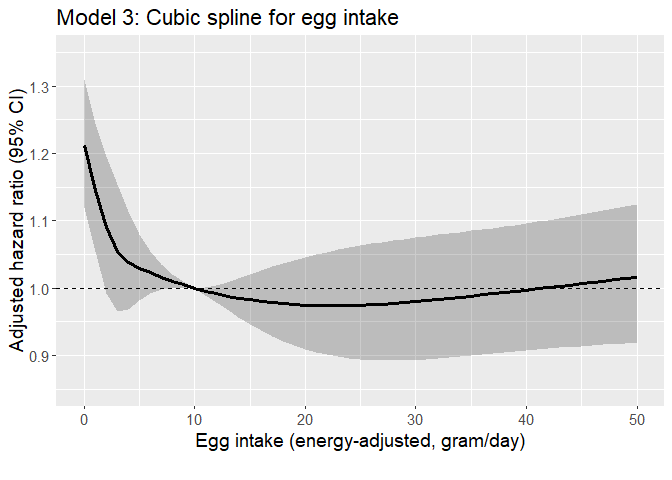
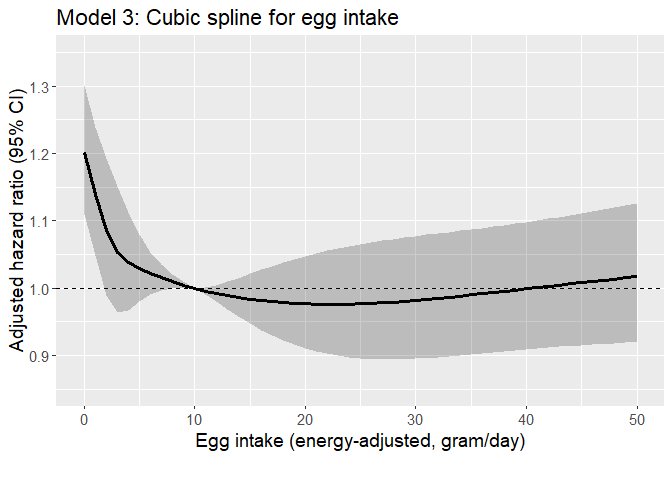
Adds recalculated dairy

diff --git a/summary.md b/summary.md
@@ -100,58 +100,58 @@ Egg dementia study
 | fish_gram_ea_4 |     n |   pct |  mean |    p1 |    p2 |    p3 |
 |:---------------|------:|------:|------:|------:|------:|------:|
 | None           | 19220 | 48.92 |  0.00 |  0.00 |  0.00 |  0.00 |
-| \<8.6 g/d      |  6253 | 15.92 |  5.40 |  4.06 |  5.37 |  6.82 |
-| 8.6-\<17.2 g/d |  6733 | 17.14 | 12.56 | 10.52 | 12.33 | 14.57 |
-| 17.2+ g/d      |  7079 | 18.02 | 35.85 | 20.97 | 27.27 | 42.07 |
+| \<9 g/d        |  6572 | 16.73 |  5.56 |  4.14 |  5.50 |  7.06 |
+| 9-\<18 g/d     |  6838 | 17.41 | 13.04 | 10.86 | 12.78 | 15.16 |
+| 18+ g/d        |  6655 | 16.94 | 37.02 | 21.82 | 28.42 | 43.59 |
 
-| dairy_gram_ea_4 |    n | pct |    mean |      p1 |      p2 |      p3 |
-|:----------------|-----:|----:|--------:|--------:|--------:|--------:|
-| \<2150 g/d      | 9822 |  25 | 2080.94 | 1887.63 | 2163.26 | 2357.61 |
-| 2150-2990 g/d   | 9821 |  25 | 2755.12 | 2640.37 | 2760.10 | 2872.39 |
-| 2990-\<3450 g/d | 9821 |  25 | 3213.99 | 3099.33 | 3210.13 | 3328.07 |
-| 3450+ g/d       | 9821 |  25 | 3957.59 | 3604.37 | 3814.46 | 4164.20 |
+| alldairy2_gram_ea_4 |     n |   pct |   mean |     p1 |     p2 |     p3 |
+|:--------------------|------:|------:|-------:|-------:|-------:|-------:|
+| None                |  4878 | 12.42 |   0.00 |   0.00 |   0.00 |   0.00 |
+| \<50 g/d            | 11784 | 30.00 |  21.46 |   9.50 |  19.78 |  32.78 |
+| 50-\<180 g/d        | 11502 | 29.28 | 106.36 |  72.54 | 102.72 | 138.05 |
+| 180+ g/d            | 11121 | 28.31 | 368.95 | 233.15 | 304.33 | 424.81 |
 
-| nutsseeds_gram_ea_4 |    n | pct |  mean |    p1 |    p2 |    p3 |
-|:--------------------|-----:|----:|------:|------:|------:|------:|
-| \<8.9 g/d           | 9822 |  25 |  4.69 |  2.60 |  4.90 |  6.94 |
-| 8.9-\<18.4 g/d      | 9821 |  25 | 13.44 | 11.09 | 13.29 | 15.76 |
-| 18.4-\<32.1 g/d     | 9821 |  25 | 24.67 | 21.30 | 24.41 | 27.92 |
-| 32.1+ g/d           | 9821 |  25 | 50.97 | 37.36 | 44.76 | 57.28 |
+| nutsseeds_gram_ea_4 |     n |   pct |  mean |    p1 |    p2 |    p3 |
+|:--------------------|------:|------:|------:|------:|------:|------:|
+| \<9 g/d             |  9941 | 25.30 |  4.74 |  2.62 |  4.95 |  7.00 |
+| 9-\<19 g/d          | 10270 | 26.14 | 13.78 | 11.30 | 13.62 | 16.24 |
+| 19-\<33 g/d         |  9715 | 24.73 | 25.39 | 21.98 | 25.10 | 28.65 |
+| 33+ g/d             |  9359 | 23.82 | 51.88 | 38.15 | 45.56 | 58.15 |
 
-| totalveg_gram_ea_4 |    n | pct |   mean |     p1 |     p2 |     p3 |
-|:-------------------|-----:|----:|-------:|-------:|-------:|-------:|
-| \<184 g/d          | 9822 |  25 | 126.59 |  98.91 | 133.07 | 160.46 |
-| 184-\<269 g/d      | 9821 |  25 | 225.94 | 204.69 | 225.38 | 247.03 |
-| 269-\<378 g/d      | 9821 |  25 | 319.60 | 292.93 | 317.58 | 345.44 |
-| 378+ g/d           | 9821 |  25 | 534.33 | 421.12 | 480.48 | 583.38 |
+| totalveg_gram_ea_4 |    n |   pct |   mean |     p1 |     p2 |     p3 |
+|:-------------------|-----:|------:|-------:|-------:|-------:|-------:|
+| \<185 g/d          | 9986 | 25.42 | 127.53 |  99.54 | 134.27 | 161.68 |
+| 185-\<270 g/d      | 9722 | 24.75 | 226.93 | 205.95 | 226.33 | 247.68 |
+| 270-\<380 g/d      | 9878 | 25.14 | 320.66 | 293.58 | 318.49 | 346.64 |
+| 380+ g/d           | 9699 | 24.69 | 536.28 | 423.07 | 482.12 | 584.60 |
 
-| fruits_gram_ea_4 |    n | pct |   mean |     p1 |     p2 |     p3 |
-|:-----------------|-----:|----:|-------:|-------:|-------:|-------:|
-| \<168 g/d        | 9822 |  25 | 101.70 |  69.21 | 107.27 | 139.02 |
-| 168-\<280 g/d    | 9821 |  25 | 224.62 | 197.55 | 224.47 | 251.89 |
-| 280-\<419 g/d    | 9821 |  25 | 344.03 | 308.95 | 341.09 | 377.68 |
-| 419+ g/d         | 9821 |  25 | 616.47 | 471.75 | 546.38 | 683.82 |
+| fruits_gram_ea_4 |    n |   pct |   mean |     p1 |     p2 |     p3 |
+|:-----------------|-----:|------:|-------:|-------:|-------:|-------:|
+| \<170 g/d        | 9889 | 25.17 | 102.16 |  69.40 | 107.64 | 139.63 |
+| 170-\<280 g/d    | 9773 | 24.88 | 225.10 | 198.11 | 224.93 | 252.28 |
+| 280-\<420 g/d    | 9831 | 25.02 | 344.38 | 309.25 | 341.64 | 378.08 |
+| 420+ g/d         | 9792 | 24.93 | 617.05 | 472.46 | 546.86 | 684.20 |
 
-| legumes_gram_ea_4 |    n | pct |   mean |     p1 |     p2 |     p3 |
-|:------------------|-----:|----:|-------:|-------:|-------:|-------:|
-| \<33.4 g/d        | 9822 |  25 |  16.87 |   8.73 |  17.65 |  25.93 |
-| 33.4-\<61.1 g/d   | 9821 |  25 |  47.29 |  40.47 |  47.34 |  54.11 |
-| 61.1-\<99.2 g/d   | 9821 |  25 |  77.99 |  68.62 |  77.02 |  86.68 |
-| 99.2+ g/d         | 9821 |  25 | 167.19 | 115.63 | 141.92 | 192.18 |
+| legumes_gram_ea_4 |     n |   pct |   mean |     p1 |     p2 |     p3 |
+|:------------------|------:|------:|-------:|-------:|-------:|-------:|
+| (-Inf,33\]        |  9677 | 24.63 |  16.63 |   8.59 |  17.38 |  25.56 |
+| (33,60\]          |  9596 | 24.43 |  46.57 |  39.91 |  46.65 |  53.22 |
+| (60,100\]         | 10346 | 26.34 |  77.69 |  67.90 |  76.58 |  86.79 |
+| (100, Inf\]       |  9666 | 24.60 | 168.27 | 116.66 | 143.04 | 193.09 |
 
-| refgrains_gram_ea_4 |    n | pct |   mean |     p1 |     p2 |     p3 |
-|:--------------------|-----:|----:|-------:|-------:|-------:|-------:|
-| \<38.4 g/d          | 9822 |  25 |  20.44 |  12.57 |  21.07 |  29.52 |
-| 38.4-\<80.5 g/d     | 9821 |  25 |  58.28 |  47.87 |  57.66 |  68.53 |
-| 80.5-\<146 g/d      | 9821 |  25 | 109.51 |  93.08 | 107.94 | 124.73 |
-| 146+ g/d            | 9821 |  25 | 265.82 | 173.46 | 218.48 | 304.67 |
+| refgrains_gram_ea_4 |     n |   pct |   mean |     p1 |     p2 |     p3 |
+|:--------------------|------:|------:|-------:|-------:|-------:|-------:|
+| \<40 g/d            | 10245 | 26.08 |  21.21 |  12.97 |  21.88 |  30.66 |
+| 40-\<83 g/d         |  9913 | 25.23 |  60.32 |  49.65 |  59.53 |  70.86 |
+| 83-\<150 g/d        |  9732 | 24.77 | 112.66 |  95.95 | 111.02 | 128.22 |
+| 150+ g/d            |  9395 | 23.91 | 271.16 | 178.22 | 223.86 | 311.98 |
 
-| whole_mixed_grains_gram_ea_4 |    n | pct |   mean |     p1 |     p2 |     p3 |
-|:-----------------------------|-----:|----:|-------:|-------:|-------:|-------:|
-| \<117 g/d                    | 9822 |  25 |  69.74 |  47.54 |  73.98 |  96.11 |
-| 117-\<209 g/d                | 9821 |  25 | 160.58 | 137.88 | 159.32 | 182.20 |
-| 209-\<352 g/d                | 9821 |  25 | 273.75 | 237.54 | 270.61 | 308.31 |
-| 352+ g/d                     | 9821 |  25 | 521.98 | 404.59 | 476.40 | 593.62 |
+| whole_mixed_grains_gram_ea_4 |     n |   pct |   mean |     p1 |     p2 |     p3 |
+|:-----------------------------|------:|------:|-------:|-------:|-------:|-------:|
+| \<120 g/d                    | 10143 | 25.82 |  71.28 |  48.70 |  75.39 |  98.24 |
+| 120-\<210 g/d                |  9616 | 24.48 | 162.57 | 140.22 | 161.40 | 184.00 |
+| 210-\<350 g/d                |  9618 | 24.48 | 273.83 | 238.35 | 270.76 | 307.53 |
+| 350+ g/d                     |  9908 | 25.22 | 520.48 | 403.24 | 475.29 | 592.58 |
 
 - For egg intake and meat intake, a crosstab was produced:
   - The first table was stratified by meat intake (% of egg intake
@@ -299,37 +299,37 @@ Egg dementia study
 |  | 11-\<32 g/d | 6404 (16.3) | 5389 (16.6) | 1015 (15.0) |  |  |
 |  | 32+ g/d | 6608 (16.8) | 5744 (17.7) | 864 (12.8) |  |  |
 | fish_gram_ea_4 (%) | None | 19220 (48.9) | 15626 (48.1) | 3594 (53.1) | \<0.001 |  |
-|  | \<8.6 g/d | 6253 (15.9) | 5105 (15.7) | 1148 (17.0) |  |  |
-|  | 8.6-\<17.2 g/d | 6733 (17.1) | 5679 (17.5) | 1054 (15.6) |  |  |
-|  | 17.2+ g/d | 7079 (18.0) | 6109 (18.8) | 970 (14.3) |  |  |
-| dairy_gram_ea_4 (%) | \<2150 g/d | 9822 (25.0) | 8134 (25.0) | 1688 (24.9) | 0.001 |  |
-|  | 2150-2990 g/d | 9821 (25.0) | 8090 (24.9) | 1731 (25.6) |  |  |
-|  | 2990-\<3450 g/d | 9821 (25.0) | 8047 (24.7) | 1774 (26.2) |  |  |
-|  | 3450+ g/d | 9821 (25.0) | 8248 (25.4) | 1573 (23.2) |  |  |
-| totalveg_gram_ea_4 (%) | \<184 g/d | 9822 (25.0) | 8175 (25.1) | 1647 (24.3) | 0.357 |  |
-|  | 184-\<269 g/d | 9821 (25.0) | 8117 (25.0) | 1704 (25.2) |  |  |
-|  | 269-\<378 g/d | 9821 (25.0) | 8083 (24.9) | 1738 (25.7) |  |  |
-|  | 378+ g/d | 9821 (25.0) | 8144 (25.0) | 1677 (24.8) |  |  |
-| fruits_gram_ea_4 (%) | \<168 g/d | 9822 (25.0) | 8392 (25.8) | 1430 (21.1) | \<0.001 |  |
-|  | 168-\<280 g/d | 9821 (25.0) | 8199 (25.2) | 1622 (24.0) |  |  |
-|  | 280-\<419 g/d | 9821 (25.0) | 7989 (24.6) | 1832 (27.1) |  |  |
-|  | 419+ g/d | 9821 (25.0) | 7939 (24.4) | 1882 (27.8) |  |  |
-| refgrains_gram_ea_4 (%) | \<38.4 g/d | 9822 (25.0) | 7746 (23.8) | 2076 (30.7) | \<0.001 |  |
-|  | 38.4-\<80.5 g/d | 9821 (25.0) | 8069 (24.8) | 1752 (25.9) |  |  |
-|  | 80.5-\<146 g/d | 9821 (25.0) | 8321 (25.6) | 1500 (22.2) |  |  |
-|  | 146+ g/d | 9821 (25.0) | 8383 (25.8) | 1438 (21.3) |  |  |
-| whole_mixed_grains_gram_ea_4 (%) | \<117 g/d | 9822 (25.0) | 8380 (25.8) | 1442 (21.3) | \<0.001 |  |
-|  | 117-\<209 g/d | 9821 (25.0) | 8156 (25.1) | 1665 (24.6) |  |  |
-|  | 209-\<352 g/d | 9821 (25.0) | 8053 (24.8) | 1768 (26.1) |  |  |
-|  | 352+ g/d | 9821 (25.0) | 7930 (24.4) | 1891 (27.9) |  |  |
-| nutsseeds_gram_ea_4 (%) | \<8.9 g/d | 9822 (25.0) | 8339 (25.6) | 1483 (21.9) | \<0.001 |  |
-|  | 8.9-\<18.4 g/d | 9821 (25.0) | 8220 (25.3) | 1601 (23.7) |  |  |
-|  | 18.4-\<32.1 g/d | 9821 (25.0) | 8085 (24.9) | 1736 (25.7) |  |  |
-|  | 32.1+ g/d | 9821 (25.0) | 7875 (24.2) | 1946 (28.8) |  |  |
-| legumes_gram_ea_4 (%) | \<33.4 g/d | 9822 (25.0) | 8098 (24.9) | 1724 (25.5) | 0.001 |  |
-|  | 33.4-\<61.1 g/d | 9821 (25.0) | 8022 (24.7) | 1799 (26.6) |  |  |
-|  | 61.1-\<99.2 g/d | 9821 (25.0) | 8178 (25.1) | 1643 (24.3) |  |  |
-|  | 99.2+ g/d | 9821 (25.0) | 8221 (25.3) | 1600 (23.6) |  |  |
+|  | \<9 g/d | 6572 (16.7) | 5369 (16.5) | 1203 (17.8) |  |  |
+|  | 9-\<18 g/d | 6838 (17.4) | 5769 (17.7) | 1069 (15.8) |  |  |
+|  | 18+ g/d | 6655 (16.9) | 5755 (17.7) | 900 (13.3) |  |  |
+| alldairy2_gram_ea_4 (%) | None | 4878 (12.4) | 3937 (12.1) | 941 (13.9) | \<0.001 |  |
+|  | \<50 g/d | 11784 (30.0) | 9751 (30.0) | 2033 (30.0) |  |  |
+|  | 50-\<180 g/d | 11502 (29.3) | 9658 (29.7) | 1844 (27.3) |  |  |
+|  | 180+ g/d | 11121 (28.3) | 9173 (28.2) | 1948 (28.8) |  |  |
+| totalveg_gram_ea_4 (%) | \<185 g/d | 9986 (25.4) | 8312 (25.6) | 1674 (24.7) | 0.408 |  |
+|  | 185-\<270 g/d | 9722 (24.7) | 8037 (24.7) | 1685 (24.9) |  |  |
+|  | 270-\<380 g/d | 9878 (25.1) | 8134 (25.0) | 1744 (25.8) |  |  |
+|  | 380+ g/d | 9699 (24.7) | 8036 (24.7) | 1663 (24.6) |  |  |
+| fruits_gram_ea_4 (%) | \<170 g/d | 9889 (25.2) | 8450 (26.0) | 1439 (21.3) | \<0.001 |  |
+|  | 170-\<280 g/d | 9773 (24.9) | 8155 (25.1) | 1618 (23.9) |  |  |
+|  | 280-\<420 g/d | 9831 (25.0) | 7995 (24.6) | 1836 (27.1) |  |  |
+|  | 420+ g/d | 9792 (24.9) | 7919 (24.4) | 1873 (27.7) |  |  |
+| refgrains_gram_ea_4 (%) | \<40 g/d | 10245 (26.1) | 8099 (24.9) | 2146 (31.7) | \<0.001 |  |
+|  | 40-\<83 g/d | 9913 (25.2) | 8148 (25.1) | 1765 (26.1) |  |  |
+|  | 83-\<150 g/d | 9732 (24.8) | 8238 (25.3) | 1494 (22.1) |  |  |
+|  | 150+ g/d | 9395 (23.9) | 8034 (24.7) | 1361 (20.1) |  |  |
+| whole_mixed_grains_gram_ea_4 (%) | \<120 g/d | 10143 (25.8) | 8654 (26.6) | 1489 (22.0) | \<0.001 |  |
+|  | 120-\<210 g/d | 9616 (24.5) | 7977 (24.5) | 1639 (24.2) |  |  |
+|  | 210-\<350 g/d | 9618 (24.5) | 7889 (24.3) | 1729 (25.6) |  |  |
+|  | 350+ g/d | 9908 (25.2) | 7999 (24.6) | 1909 (28.2) |  |  |
+| nutsseeds_gram_ea_4 (%) | \<9 g/d | 9941 (25.3) | 8440 (26.0) | 1501 (22.2) | \<0.001 |  |
+|  | 9-\<19 g/d | 10270 (26.1) | 8591 (26.4) | 1679 (24.8) |  |  |
+|  | 19-\<33 g/d | 9715 (24.7) | 8000 (24.6) | 1715 (25.3) |  |  |
+|  | 33+ g/d | 9359 (23.8) | 7488 (23.0) | 1871 (27.7) |  |  |
+| legumes_gram_ea_4 (%) | (-Inf,33\] | 9677 (24.6) | 7977 (24.5) | 1700 (25.1) | 0.001 |  |
+|  | (33,60\] | 9596 (24.4) | 7834 (24.1) | 1762 (26.0) |  |  |
+|  | (60,100\] | 10346 (26.3) | 8619 (26.5) | 1727 (25.5) |  |  |
+|  | (100, Inf\] | 9666 (24.6) | 8089 (24.9) | 1577 (23.3) |  |  |
 
 ## Descriptive table by egg intake
 
@@ -406,37 +406,37 @@ Egg dementia study
 |  | 11-\<32 g/d | 6404 (16.3) | 599 ( 5.7) | 1855 (18.3) | 1392 (20.1) | 2075 (21.9) | 483 (21.7) |  |  |
 |  | 32+ g/d | 6608 (16.8) | 484 ( 4.6) | 1403 (13.8) | 1350 (19.5) | 2504 (26.5) | 867 (39.0) |  |  |
 | fish_gram_ea_4 (%) | None | 19220 (48.9) | 7939 (75.1) | 4764 (47.0) | 2738 (39.6) | 3180 (33.6) | 599 (27.0) | \<0.001 |  |
-|  | \<8.6 g/d | 6253 (15.9) | 987 ( 9.3) | 1802 (17.8) | 1231 (17.8) | 1743 (18.4) | 490 (22.1) |  |  |
-|  | 8.6-\<17.2 g/d | 6733 (17.1) | 792 ( 7.5) | 1833 (18.1) | 1431 (20.7) | 2142 (22.6) | 535 (24.1) |  |  |
-|  | 17.2+ g/d | 7079 (18.0) | 848 ( 8.0) | 1733 (17.1) | 1509 (21.8) | 2392 (25.3) | 597 (26.9) |  |  |
-| dairy_gram_ea_4 (%) | \<2150 g/d | 9822 (25.0) | 2243 (21.2) | 2672 (26.4) | 1725 (25.0) | 2543 (26.9) | 639 (28.8) | \<0.001 |  |
-|  | 2150-2990 g/d | 9821 (25.0) | 2381 (22.5) | 2456 (24.2) | 1808 (26.2) | 2580 (27.3) | 596 (26.8) |  |  |
-|  | 2990-\<3450 g/d | 9821 (25.0) | 2795 (26.5) | 2464 (24.3) | 1721 (24.9) | 2326 (24.6) | 515 (23.2) |  |  |
-|  | 3450+ g/d | 9821 (25.0) | 3147 (29.8) | 2540 (25.1) | 1655 (24.0) | 2008 (21.2) | 471 (21.2) |  |  |
-| totalveg_gram_ea_4 (%) | \<184 g/d | 9822 (25.0) | 2059 (19.5) | 2717 (26.8) | 1730 (25.0) | 2581 (27.3) | 735 (33.1) | \<0.001 |  |
-|  | 184-\<269 g/d | 9821 (25.0) | 2360 (22.3) | 2491 (24.6) | 1854 (26.8) | 2567 (27.1) | 549 (24.7) |  |  |
-|  | 269-\<378 g/d | 9821 (25.0) | 2672 (25.3) | 2534 (25.0) | 1757 (25.4) | 2367 (25.0) | 491 (22.1) |  |  |
-|  | 378+ g/d | 9821 (25.0) | 3475 (32.9) | 2390 (23.6) | 1568 (22.7) | 1942 (20.5) | 446 (20.1) |  |  |
-| fruits_gram_ea_4 (%) | \<168 g/d | 9822 (25.0) | 1547 (14.6) | 2495 (24.6) | 1806 (26.1) | 3008 (31.8) | 966 (43.5) | \<0.001 |  |
-|  | 168-\<280 g/d | 9821 (25.0) | 2110 (20.0) | 2493 (24.6) | 1884 (27.3) | 2771 (29.3) | 563 (25.3) |  |  |
-|  | 280-\<419 g/d | 9821 (25.0) | 2913 (27.6) | 2523 (24.9) | 1794 (26.0) | 2172 (23.0) | 419 (18.9) |  |  |
-|  | 419+ g/d | 9821 (25.0) | 3996 (37.8) | 2621 (25.9) | 1425 (20.6) | 1506 (15.9) | 273 (12.3) |  |  |
-| refgrains_gram_ea_4 (%) | \<38.4 g/d | 9822 (25.0) | 3776 (35.7) | 2343 (23.1) | 1323 (19.1) | 1855 (19.6) | 525 (23.6) | \<0.001 |  |
-|  | 38.4-\<80.5 g/d | 9821 (25.0) | 2463 (23.3) | 2578 (25.4) | 1812 (26.2) | 2379 (25.2) | 589 (26.5) |  |  |
-|  | 80.5-\<146 g/d | 9821 (25.0) | 2151 (20.4) | 2645 (26.1) | 1909 (27.6) | 2547 (26.9) | 569 (25.6) |  |  |
-|  | 146+ g/d | 9821 (25.0) | 2176 (20.6) | 2566 (25.3) | 1865 (27.0) | 2676 (28.3) | 538 (24.2) |  |  |
-| whole_mixed_grains_gram_ea_4 (%) | \<117 g/d | 9822 (25.0) | 1509 (14.3) | 2579 (25.5) | 1882 (27.2) | 2905 (30.7) | 947 (42.6) | \<0.001 |  |
-|  | 117-\<209 g/d | 9821 (25.0) | 1986 (18.8) | 2594 (25.6) | 1933 (28.0) | 2720 (28.8) | 588 (26.5) |  |  |
-|  | 209-\<352 g/d | 9821 (25.0) | 2947 (27.9) | 2425 (23.9) | 1685 (24.4) | 2327 (24.6) | 437 (19.7) |  |  |
-|  | 352+ g/d | 9821 (25.0) | 4124 (39.0) | 2534 (25.0) | 1409 (20.4) | 1505 (15.9) | 249 (11.2) |  |  |
-| nutsseeds_gram_ea_4 (%) | \<8.9 g/d | 9822 (25.0) | 1992 (18.9) | 2725 (26.9) | 1729 (25.0) | 2611 (27.6) | 765 (34.4) | \<0.001 |  |
-|  | 8.9-\<18.4 g/d | 9821 (25.0) | 2122 (20.1) | 2611 (25.8) | 1831 (26.5) | 2674 (28.3) | 583 (26.2) |  |  |
-|  | 18.4-\<32.1 g/d | 9821 (25.0) | 2768 (26.2) | 2384 (23.5) | 1831 (26.5) | 2349 (24.8) | 489 (22.0) |  |  |
-|  | 32.1+ g/d | 9821 (25.0) | 3684 (34.9) | 2412 (23.8) | 1518 (22.0) | 1823 (19.3) | 384 (17.3) |  |  |
-| legumes_gram_ea_4 (%) | \<33.4 g/d | 9822 (25.0) | 1918 (18.2) | 2570 (25.4) | 1698 (24.6) | 2788 (29.5) | 848 (38.2) | \<0.001 |  |
-|  | 33.4-\<61.1 g/d | 9821 (25.0) | 2292 (21.7) | 2562 (25.3) | 1823 (26.4) | 2541 (26.9) | 603 (27.1) |  |  |
-|  | 61.1-\<99.2 g/d | 9821 (25.0) | 2797 (26.5) | 2536 (25.0) | 1849 (26.8) | 2204 (23.3) | 435 (19.6) |  |  |
-|  | 99.2+ g/d | 9821 (25.0) | 3559 (33.7) | 2464 (24.3) | 1539 (22.3) | 1924 (20.3) | 335 (15.1) |  |  |
+|  | \<9 g/d | 6572 (16.7) | 1019 ( 9.6) | 1887 (18.6) | 1299 (18.8) | 1852 (19.6) | 515 (23.2) |  |  |
+|  | 9-\<18 g/d | 6838 (17.4) | 807 ( 7.6) | 1859 (18.3) | 1449 (21.0) | 2183 (23.1) | 540 (24.3) |  |  |
+|  | 18+ g/d | 6655 (16.9) | 801 ( 7.6) | 1622 (16.0) | 1423 (20.6) | 2242 (23.7) | 567 (25.5) |  |  |
+| alldairy2_gram_ea_4 (%) | None | 4878 (12.4) | 3956 (37.4) | 506 ( 5.0) | 186 ( 2.7) | 187 ( 2.0) | 43 ( 1.9) | \<0.001 |  |
+|  | \<50 g/d | 11784 (30.0) | 4014 (38.0) | 3604 (35.6) | 1728 (25.0) | 2003 (21.2) | 435 (19.6) |  |  |
+|  | 50-\<180 g/d | 11502 (29.3) | 1540 (14.6) | 3230 (31.9) | 2447 (35.4) | 3472 (36.7) | 813 (36.6) |  |  |
+|  | 180+ g/d | 11121 (28.3) | 1056 (10.0) | 2792 (27.6) | 2548 (36.9) | 3795 (40.1) | 930 (41.9) |  |  |
+| totalveg_gram_ea_4 (%) | \<185 g/d | 9986 (25.4) | 2092 (19.8) | 2757 (27.2) | 1773 (25.7) | 2618 (27.7) | 746 (33.6) | \<0.001 |  |
+|  | 185-\<270 g/d | 9722 (24.7) | 2352 (22.3) | 2468 (24.4) | 1823 (26.4) | 2538 (26.8) | 541 (24.4) |  |  |
+|  | 270-\<380 g/d | 9878 (25.1) | 2677 (25.3) | 2554 (25.2) | 1767 (25.6) | 2385 (25.2) | 495 (22.3) |  |  |
+|  | 380+ g/d | 9699 (24.7) | 3445 (32.6) | 2353 (23.2) | 1546 (22.4) | 1916 (20.3) | 439 (19.8) |  |  |
+| fruits_gram_ea_4 (%) | \<170 g/d | 9889 (25.2) | 1556 (14.7) | 2517 (24.8) | 1819 (26.3) | 3027 (32.0) | 970 (43.7) | \<0.001 |  |
+|  | 170-\<280 g/d | 9773 (24.9) | 2106 (19.9) | 2475 (24.4) | 1875 (27.1) | 2758 (29.2) | 559 (25.2) |  |  |
+|  | 280-\<420 g/d | 9831 (25.0) | 2918 (27.6) | 2526 (24.9) | 1796 (26.0) | 2172 (23.0) | 419 (18.9) |  |  |
+|  | 420+ g/d | 9792 (24.9) | 3986 (37.7) | 2614 (25.8) | 1419 (20.5) | 1500 (15.9) | 273 (12.3) |  |  |
+| refgrains_gram_ea_4 (%) | \<40 g/d | 10245 (26.1) | 3901 (36.9) | 2461 (24.3) | 1395 (20.2) | 1939 (20.5) | 549 (24.7) | \<0.001 |  |
+|  | 40-\<83 g/d | 9913 (25.2) | 2474 (23.4) | 2588 (25.5) | 1825 (26.4) | 2430 (25.7) | 596 (26.8) |  |  |
+|  | 83-\<150 g/d | 9732 (24.8) | 2110 (20.0) | 2641 (26.1) | 1894 (27.4) | 2530 (26.8) | 557 (25.1) |  |  |
+|  | 150+ g/d | 9395 (23.9) | 2081 (19.7) | 2442 (24.1) | 1795 (26.0) | 2558 (27.0) | 519 (23.4) |  |  |
+| whole_mixed_grains_gram_ea_4 (%) | \<120 g/d | 10143 (25.8) | 1578 (14.9) | 2655 (26.2) | 1954 (28.3) | 2988 (31.6) | 968 (43.6) | \<0.001 |  |
+|  | 120-\<210 g/d | 9616 (24.5) | 1947 (18.4) | 2545 (25.1) | 1886 (27.3) | 2668 (28.2) | 570 (25.7) |  |  |
+|  | 210-\<350 g/d | 9618 (24.5) | 2893 (27.4) | 2369 (23.4) | 1645 (23.8) | 2281 (24.1) | 430 (19.4) |  |  |
+|  | 350+ g/d | 9908 (25.2) | 4148 (39.3) | 2563 (25.3) | 1424 (20.6) | 1520 (16.1) | 253 (11.4) |  |  |
+| nutsseeds_gram_ea_4 (%) | \<9 g/d | 9941 (25.3) | 2011 (19.0) | 2757 (27.2) | 1754 (25.4) | 2641 (27.9) | 778 (35.0) | \<0.001 |  |
+|  | 9-\<19 g/d | 10270 (26.1) | 2252 (21.3) | 2717 (26.8) | 1904 (27.6) | 2796 (29.6) | 601 (27.1) |  |  |
+|  | 19-\<33 g/d | 9715 (24.7) | 2766 (26.2) | 2370 (23.4) | 1809 (26.2) | 2296 (24.3) | 474 (21.3) |  |  |
+|  | 33+ g/d | 9359 (23.8) | 3537 (33.5) | 2288 (22.6) | 1442 (20.9) | 1724 (18.2) | 368 (16.6) |  |  |
+| legumes_gram_ea_4 (%) | (-Inf,33\] | 9677 (24.6) | 1885 (17.8) | 2531 (25.0) | 1677 (24.3) | 2747 (29.0) | 837 (37.7) | \<0.001 |  |
+|  | (33,60\] | 9596 (24.4) | 2224 (21.0) | 2498 (24.7) | 1780 (25.8) | 2496 (26.4) | 598 (26.9) |  |  |
+|  | (60,100\] | 10346 (26.3) | 2952 (27.9) | 2677 (26.4) | 1939 (28.1) | 2323 (24.6) | 455 (20.5) |  |  |
+|  | (100, Inf\] | 9666 (24.6) | 3505 (33.2) | 2426 (23.9) | 1513 (21.9) | 1891 (20.0) | 331 (14.9) |  |  |
 
 - A descriptive table of age at diagnosis by egg intake among cases is
   shown below:
@@ -516,22 +516,22 @@ Egg dementia study
 
 | eggs_gram_ea |   HR | lower | upper |
 |-------------:|-----:|------:|------:|
-|            0 | 1.21 |  1.12 |  1.31 |
+|            0 | 1.20 |  1.11 |  1.30 |
 |           20 | 0.98 |  0.91 |  1.05 |
-|           30 | 0.98 |  0.89 |  1.08 |
+|           30 | 0.98 |  0.90 |  1.08 |
 |           40 | 1.00 |  0.91 |  1.10 |
-|           50 | 1.02 |  0.92 |  1.12 |
+|           50 | 1.02 |  0.92 |  1.13 |
 
 - Tables below shows adjusted HR for some representative values of
   vegetable gram intake (reference = 300 gram/day).
 
 | totalveg_gram_ea |   HR | lower | upper |
 |-----------------:|-----:|------:|------:|
-|               50 | 1.23 |  1.10 |  1.37 |
-|              100 | 1.10 |  1.02 |  1.19 |
-|              200 | 0.96 |  0.90 |  1.02 |
-|              400 | 1.00 |  0.94 |  1.06 |
-|              800 | 0.95 |  0.85 |  1.05 |
+|               50 | 1.21 |  1.08 |  1.36 |
+|              100 | 1.09 |  1.01 |  1.18 |
+|              200 | 0.95 |  0.89 |  1.02 |
+|              400 | 1.00 |  0.95 |  1.06 |
+|              800 | 0.97 |  0.87 |  1.07 |
 
 ## Supplementary analysis
 

diff --git a/summary_Alzheimer.md b/summary_Alzheimer.md
@@ -117,14 +117,14 @@ Egg dementia study
 | \<185 g/d          | 10036 | 25.37 | 127.52 |  99.55 | 134.27 | 161.64 |
 | 185-\<270 g/d      |  9787 | 24.74 | 226.91 | 205.87 | 226.31 | 247.67 |
 | 270-\<380 g/d      |  9959 | 25.18 | 320.72 | 293.67 | 318.61 | 346.72 |
-| 378+ g/d           |  9771 | 24.70 | 536.28 | 423.15 | 482.32 | 584.57 |
+| 380+ g/d           |  9771 | 24.70 | 536.28 | 423.15 | 482.32 | 584.57 |
 
 | fruits_gram_ea_4 |    n |   pct |   mean |     p1 |     p2 |     p3 |
 |:-----------------|-----:|------:|-------:|-------:|-------:|-------:|
 | \<170 g/d        | 9931 | 25.11 | 102.15 |  69.43 | 107.65 | 139.70 |
 | 170-\<280 g/d    | 9840 | 24.88 | 225.04 | 198.07 | 224.82 | 252.18 |
 | 280-\<420 g/d    | 9913 | 25.06 | 344.35 | 309.14 | 341.56 | 378.12 |
-| 419+ g/d         | 9869 | 24.95 | 617.23 | 472.45 | 547.12 | 684.26 |
+| 420+ g/d         | 9869 | 24.95 | 617.23 | 472.45 | 547.12 | 684.26 |
 
 | legumes_gram_ea_4 |     n |   pct |   mean |     p1 |     p2 |     p3 |
 |:------------------|------:|------:|-------:|-------:|-------:|-------:|
@@ -299,11 +299,11 @@ Egg dementia study
 | totalveg_gram_ea_4 (%) | \<185 g/d | 10036 (25.4) | 9322 (25.4) | 714 (24.9) | 0.392 |  |
 |  | 185-\<270 g/d | 9787 (24.7) | 9086 (24.8) | 701 (24.5) |  |  |
 |  | 270-\<380 g/d | 9959 (25.2) | 9199 (25.1) | 760 (26.5) |  |  |
-|  | 378+ g/d | 9771 (24.7) | 9080 (24.7) | 691 (24.1) |  |  |
+|  | 380+ g/d | 9771 (24.7) | 9080 (24.7) | 691 (24.1) |  |  |
 | fruits_gram_ea_4 (%) | \<170 g/d | 9931 (25.1) | 9349 (25.5) | 582 (20.3) | \<0.001 |  |
 |  | 170-\<280 g/d | 9840 (24.9) | 9171 (25.0) | 669 (23.3) |  |  |
 |  | 280-\<420 g/d | 9913 (25.1) | 9092 (24.8) | 821 (28.6) |  |  |
-|  | 419+ g/d | 9869 (25.0) | 9075 (24.7) | 794 (27.7) |  |  |
+|  | 420+ g/d | 9869 (25.0) | 9075 (24.7) | 794 (27.7) |  |  |
 | refgrains_gram_ea_4 (%) | \<40 g/d | 10331 (26.1) | 9395 (25.6) | 936 (32.7) | \<0.001 |  |
 |  | 40-\<83 g/d | 9976 (25.2) | 9229 (25.2) | 747 (26.1) |  |  |
 |  | 83-\<150 g/d | 9794 (24.8) | 9172 (25.0) | 622 (21.7) |  |  |
@@ -402,11 +402,11 @@ Egg dementia study
 | totalveg_gram_ea_4 (%) | \<185 g/d | 10036 (25.4) | 2098 (19.7) | 2780 (27.2) | 1782 (25.6) | 2627 (27.6) | 749 (33.5) | \<0.001 |  |
 |  | 185-\<270 g/d | 9787 (24.7) | 2364 (22.2) | 2480 (24.3) | 1834 (26.4) | 2560 (26.9) | 549 (24.5) |  |  |
 |  | 270-\<380 g/d | 9959 (25.2) | 2706 (25.4) | 2570 (25.2) | 1780 (25.6) | 2405 (25.3) | 498 (22.3) |  |  |
-|  | 378+ g/d | 9771 (24.7) | 3471 (32.6) | 2372 (23.3) | 1554 (22.4) | 1932 (20.3) | 442 (19.7) |  |  |
+|  | 380+ g/d | 9771 (24.7) | 3471 (32.6) | 2372 (23.3) | 1554 (22.4) | 1932 (20.3) | 442 (19.7) |  |  |
 | fruits_gram_ea_4 (%) | \<170 g/d | 9931 (25.1) | 1562 (14.7) | 2526 (24.8) | 1830 (26.3) | 3039 (31.9) | 974 (43.5) | \<0.001 |  |
 |  | 170-\<280 g/d | 9840 (24.9) | 2114 (19.9) | 2497 (24.5) | 1883 (27.1) | 2778 (29.2) | 568 (25.4) |  |  |
 |  | 280-\<420 g/d | 9913 (25.1) | 2946 (27.7) | 2543 (24.9) | 1808 (26.0) | 2194 (23.0) | 422 (18.9) |  |  |
-|  | 419+ g/d | 9869 (25.0) | 4017 (37.8) | 2636 (25.8) | 1429 (20.6) | 1513 (15.9) | 274 (12.2) |  |  |
+|  | 420+ g/d | 9869 (25.0) | 4017 (37.8) | 2636 (25.8) | 1429 (20.6) | 1513 (15.9) | 274 (12.2) |  |  |
 | refgrains_gram_ea_4 (%) | \<40 g/d | 10331 (26.1) | 3936 (37.0) | 2484 (24.3) | 1408 (20.3) | 1952 (20.5) | 551 (24.6) | \<0.001 |  |
 |  | 40-\<83 g/d | 9976 (25.2) | 2483 (23.3) | 2607 (25.6) | 1836 (26.4) | 2448 (25.7) | 602 (26.9) |  |  |
 |  | 83-\<150 g/d | 9794 (24.8) | 2126 (20.0) | 2655 (26.0) | 1905 (27.4) | 2547 (26.7) | 561 (25.1) |  |  |
